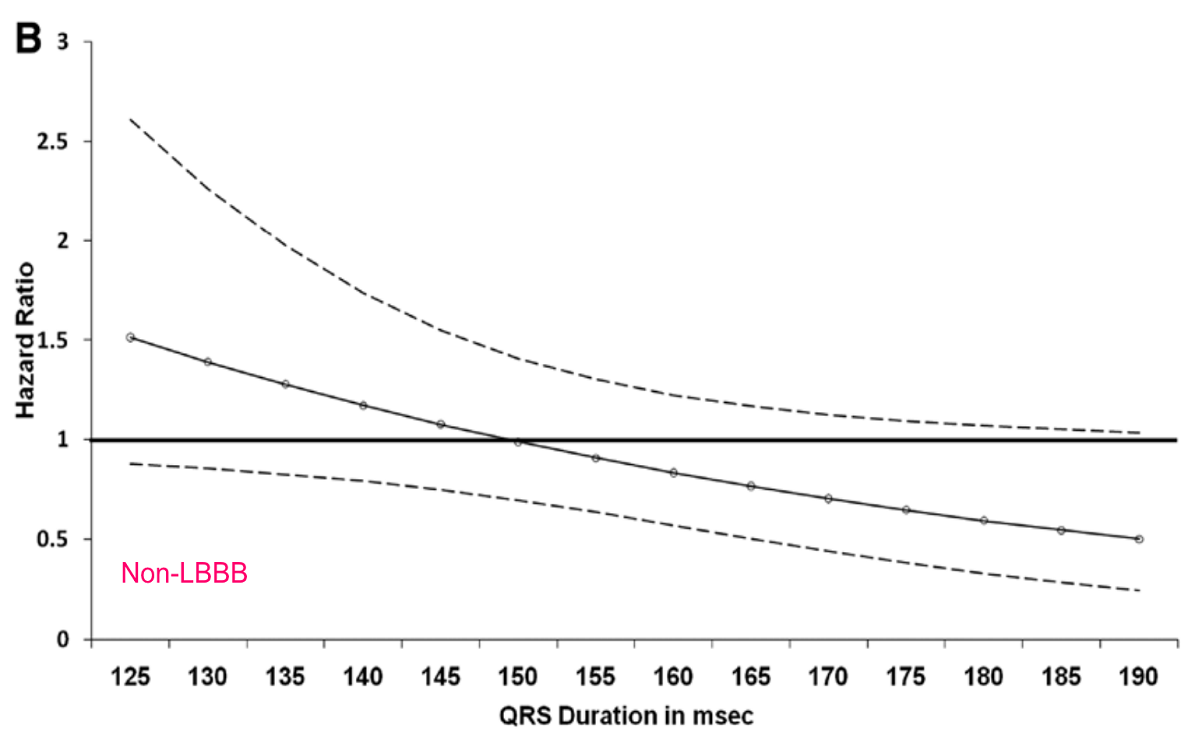
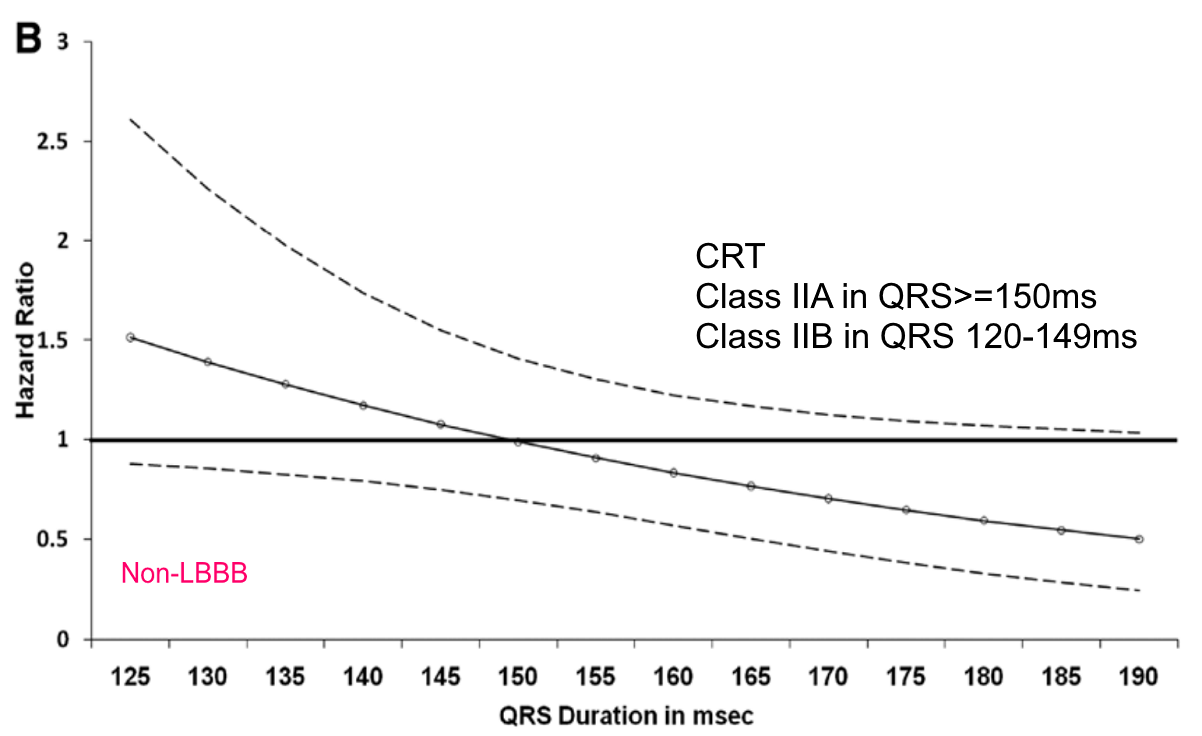
up

Changed region(s): [[0.5541, 0.3125, 0.9542, 0.5]]

diff --git a/ibhre/Clinical.html b/ibhre/Clinical.html
@@ -289,11 +289,11 @@ amp-accordion section:not([expanded]) .showLess {display: none;}
     <figure>
     <amp-fit-text width="86vw" height="40vw" layout="responsive">
     <ul class="lightList">
-      <li>
+      <!--li>
         <a href="https://doi.org/10.1093/eurheartj/ehw128" target="_blank">
           2016 ESC Guidelines for <span class="noMobile">the diagnosis and treatment of acute and chronic</span>
         <span class="lime" style="font-weight: 900;letter-spacing: 0.5vmax;">&nbsp;HEART FAILURE</span></a>
-      </li>
+      </li-->
        <li>
             <a href="https://doi.org/10.1161/CIR.0000000000000549" target="_blank">
             2017 AHA/ACC/HRS Guideline for <span class="noMobile">Management of Patients With Ventricular Arrhythmias and the Prevention of </span>
@@ -314,6 +314,12 @@ amp-accordion section:not([expanded]) .showLess {display: none;}
           2021 EHRA/HRS/APHRS/LAHRS EHRA expert consensus statement <span class="noMobile">and practical guide on optimal </span>
           <span class="lime" style="font-weight: 900;letter-spacing: 0.5vmax;">&nbsp;on optimal implantation techniques</span></a>
       </li>
+
+      <li>
+        <a href="https://doi.org/10.1161/CIR.0000000000001063" target="_blank">
+          2022 AHA/ACC/HFSA Guideline for the Management of 
+        <span class="lime" style="font-weight: 900;letter-spacing: 0.5vmax;text-transform: uppercase;">&nbsp;Heart Failure</span></a>
+    </li>
     </ul>
     </amp-fit-text>
     <figcaption on="tap:AMP.setState({expanded: !expanded})" tabindex="0" role="button" [class]="expanded ? 'expanded' : ''">
@@ -638,37 +644,51 @@ amp-accordion section:not([expanded]) .showLess {display: none;}
     <h4 class="cyan1">
     <span class="showMore"><i class="fas fa-chevron-circle-down"></i>&nbsp; </span>
     <span class="showLess"><i class="fas fa-chevron-circle-up"></i>&nbsp; </span>  
-    CRT Indications</h4>
+    CRT & Conduction System Pacing Indications</h4>
     
     <amp-carousel class="collapsible-captions" height="54vw" width="96vw" layout="fixed" type="slides" 
     style="margin-left: auto;margin-right: auto;">
     
     <!--algo-->
     <figure>
-    <amp-img layout="fill" src="media\Clinical\crtAlgoLowEF.png"></amp-img>
+    <amp-img layout="fill" src="media\Clinical\crtAlgo.png"></amp-img>
     <figcaption on="tap:AMP.setState({expanded: !expanded})" tabindex="0" role="button" [class]="expanded ? 'expanded' : ''">
-    <b>Indications for CRT Therapy in Patients with LVEF&le;35%</b><br>
+    <b>Indications for CRT Therapy</b><br>
     <i class="ref">
-      <a href="https://www.uptodate.com" target="_blank">
-      UpToDate</a>
+      <a href="https://doi.org/10.1161/CIR.0000000000001063" target="_blank">
+      2022 ACC Guidelines for HF</a>
     </i>
     <span [text]="expanded ? '▼' : '▲'">▲</span>
     </figcaption>
     </figure>
 
     <figure>
-      <amp-img layout="fill" src="media\Clinical\crtAlgoMedEF.png"></amp-img>
+      <amp-img layout="fill" src="media\Clinical\QRSandLBBB.png"></amp-img>
       <figcaption on="tap:AMP.setState({expanded: !expanded})" tabindex="0" role="button" [class]="expanded ? 'expanded' : ''">
-      <b>Indications for CRT Therapy in Patients with LVEF 35-50%</b><br>
+      <b>Benefits of CRT in LBBB</b> &nbsp;varied by the duration of QRS. 
+      The benefit began in QRS&gt;120ms and became clearer in QRS&ge;150ms.<br>
       <i class="ref">
-        <a href="https://www.uptodate.com" target="_blank">
-        UpToDate</a>
+        <a href="https://doi.org/10.1161/circheartfailure.113.000380" target="_blank">
+        Results from RAFT. Circ Heart Failure 2013.</a>
       </i>
       <span [text]="expanded ? '▼' : '▲'">▲</span>
       </figcaption>
     </figure>
 
     <figure>
+      <amp-img layout="fill" src="media\Clinical\QRSandNLBBB.png"></amp-img>
+      <figcaption on="tap:AMP.setState({expanded: !expanded})" tabindex="0" role="button" [class]="expanded ? 'expanded' : ''">
+      <b>Benefits of CRT in non-LBBB</b> &nbsp;is less than that of LBBB. 
+      <br>
+      <i class="ref">
+        <a href="https://doi.org/10.1161/circheartfailure.113.000380" target="_blank">
+        Results from RAFT. Circ Heart Failure 2013.</a>
+      </i>
+      <span [text]="expanded ? '▼' : '▲'">▲</span>
+      </figcaption>
+    </figure>
+
+    <!--figure>
       <amp-img layout="fill" src="media\Clinical\crtIndicationsEsc.png"></amp-img>
       <figcaption on="tap:AMP.setState({expanded: !expanded})" tabindex="0" role="button" [class]="expanded ? 'expanded' : ''">
       <b>Indications for CRT Therapy in brief</b><br>
@@ -678,7 +698,7 @@ amp-accordion section:not([expanded]) .showLess {display: none;}
       </i>
       <span [text]="expanded ? '▼' : '▲'">▲</span>
       </figcaption>
-    </figure>
+    </figure-->
 
     <figure>
       <amp-img layout="fill" src="media\Clinical\crtLeadPosition.jpg"></amp-img>
@@ -699,6 +719,31 @@ amp-accordion section:not([expanded]) .showLess {display: none;}
       <i class="ref">
         <a href="https://doi.org/10.1161/CIRCULATIONAHA.110.000646" target="_blank">
         Circulation 2011.</a>
+      </i>
+      <span [text]="expanded ? '▼' : '▲'">▲</span>
+      </figcaption>
+    </figure>
+
+    <figure>
+      <amp-img layout="fill" src="media\Clinical\HBP ECGs.jpeg"></amp-img>
+      <figcaption on="tap:AMP.setState({expanded: !expanded})" tabindex="0" role="button" [class]="expanded ? 'expanded' : ''">
+      <b>Selective His bundle pacing (S-HBP)</b> is easily recognized by an isoelectric interval (corresponding to the HV) between the pacing spike and QRS onset, 
+      whereas with non-selective HBP, a ‘pseudo-delta’ wave is observed due to capture of local myocardium.<br>
+      <i class="ref">
+        <a href="https://doi.org/10.1093/eurheartj/ehab364" target="_blank">
+        2021 ESC Guidelines for Cardiac Pacing</a>
+      </i>
+      <span [text]="expanded ? '▼' : '▲'">▲</span>
+      </figcaption>
+    </figure>
+
+    <figure>
+      <amp-img layout="fill" src="media\Clinical\HisAlternative.png"></amp-img>
+      <figcaption on="tap:AMP.setState({expanded: !expanded})" tabindex="0" role="button" [class]="expanded ? 'expanded' : ''">
+      2021 Guidelines recommended HBP as an alternative to CRT (IIA) while awaiting more data from both HBP and left bundle branch area pacing. 
+        <i class="ref">
+        <a href="https://doi.org/10.1093/eurheartj/ehab364" target="_blank">
+        2021 ESC Guidelines for Cardiac Pacing</a>
       </i>
       <span [text]="expanded ? '▼' : '▲'">▲</span>
       </figcaption>
